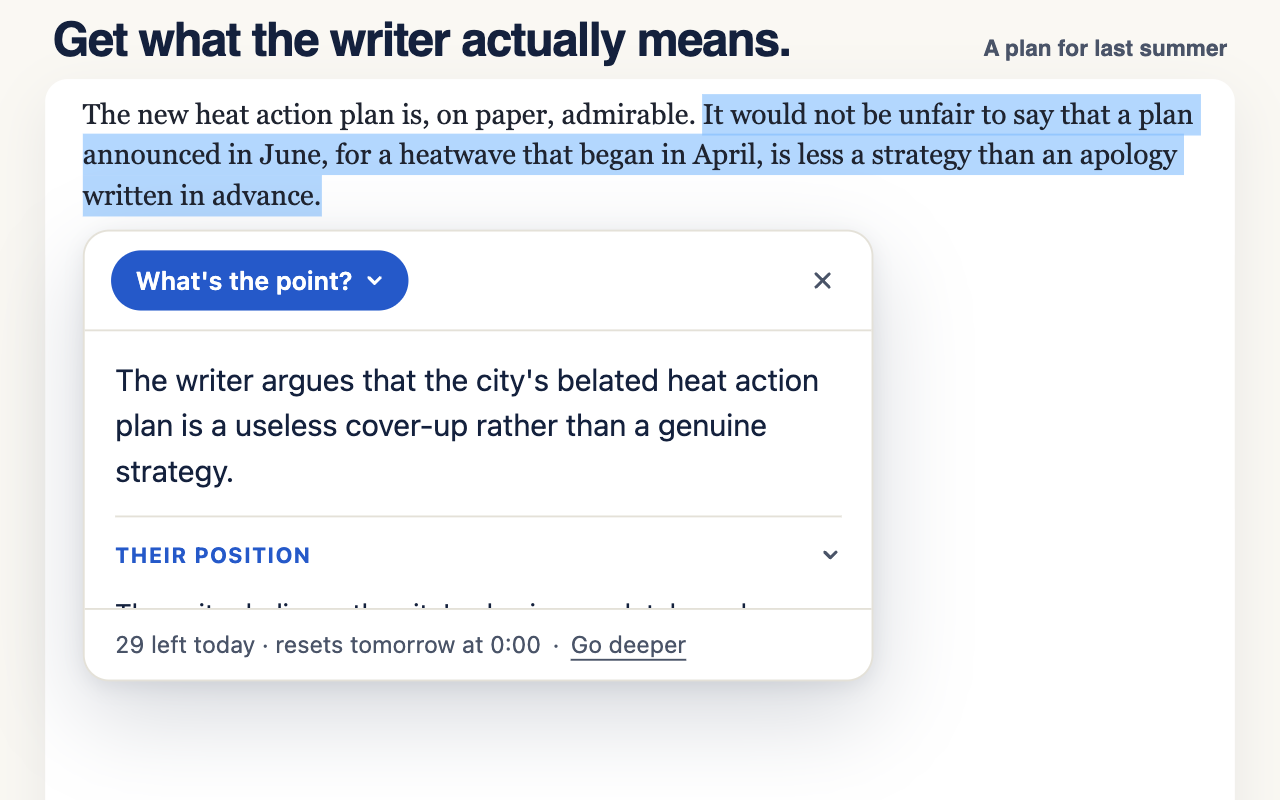
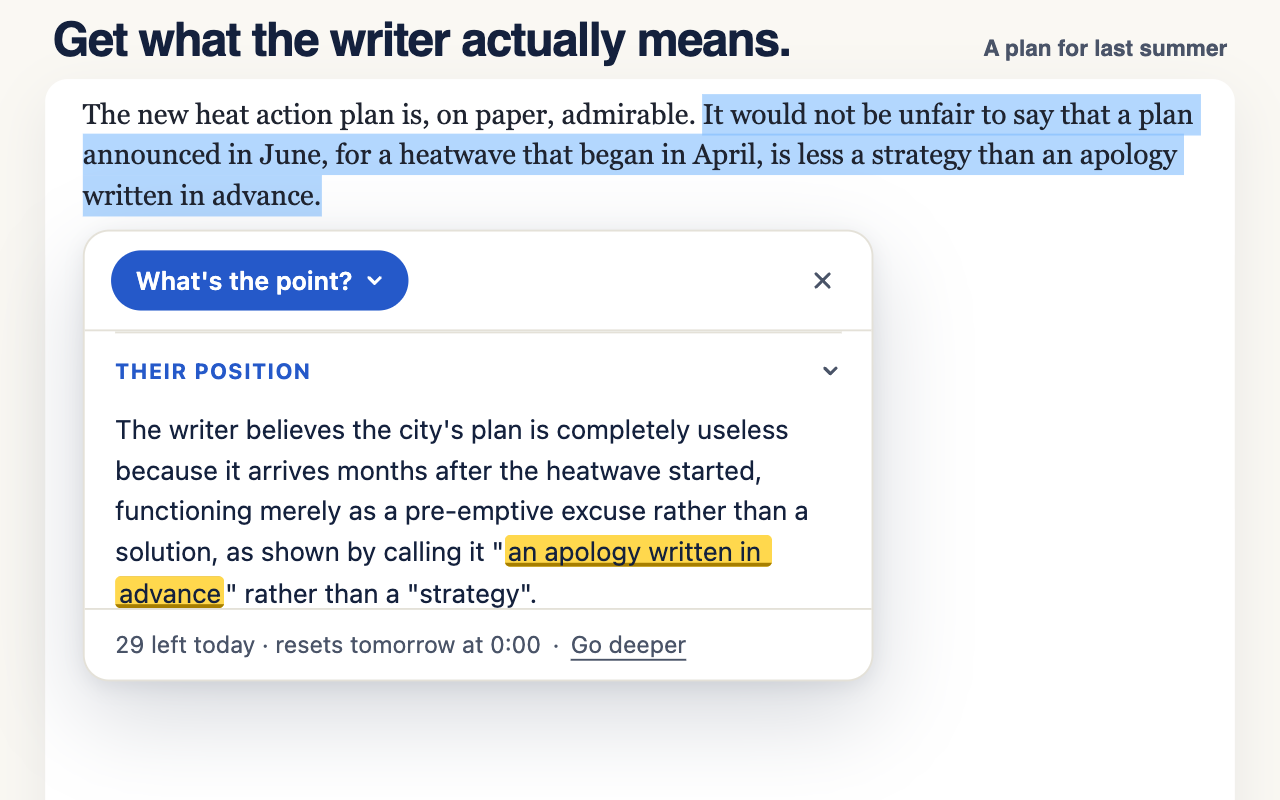
Fill store screenshot 1 and show the marked quote in screenshot 2
Shot 1 was half empty; the article now continues below a wider gap the pill
sits in. Shot 2 cut a line in half and hid the verified quote; its card is
now scrolled to show the heading and the quote with no line cut.

Changed region(s): [[0.0625, 0.4375, 0.6562, 0.7812]]

diff --git a/docs/CHANGES-EXPLAINED.md b/docs/CHANGES-EXPLAINED.md
@@ -2328,3 +2328,36 @@ closed shadow root through the Chrome DevTools Protocol. For each shot it
 checks that the card's bottom edge is inside the frame and that the summary
 isn't cut off by the card's scroll area. It printed a pass or fail line per
 shot, and I tried several zoom levels until all five passed.
+
+## Store screenshots: a full page in shot 1, the marked quote in shot 2
+
+**What changed.** Shot 1's page now continues below the selected paragraph,
+after a wider gap that the Explain pill sits in, so the text reaches as far
+down as in the other shots and the pill covers nothing. The demo editorial is
+fictional and only three sentences long, so its last sentence becomes its own
+paragraph, as in the film, and two short paragraphs were written to continue
+it. In shot 2 the card's body is scrolled, as a reader can scroll it, so the
+"Their position" heading and the line with the yellow verified quote are in
+view, with no line of text cut in half at the top or bottom edge.
+
+**Why.** Shot 1 was half empty. Shot 2 cut a line in half and hid the yellow
+quote, the visual proof that the answer quotes the writer's own words, which
+is the product's main promise.
+
+**What breaks without it.** A half-empty first image, and a screenshot that
+hides the feature it is meant to show.
+
+**Interview questions**
+
+*Q: How do you find a scroll position where no line is cut at either edge?*
+A: Collect the box of every line of text in the scrolling area (a Range over
+each text node gives one rectangle per line with getClientRects). Then try
+each scroll position in turn and keep the first one where the heading and the
+quote's lines are fully inside the visible area and no line crosses the top
+or bottom edge.
+
+*Q: How do you check that the pill doesn't cover text?*
+A: Compare rectangles. Read the pill's box from the extension's shadow root,
+read every line box of the page's paragraphs, and check that none of them
+overlap. The capture script prints the result, so a bad layout fails loudly
+instead of slipping through.

diff --git a/store-assets/UPLOAD-0.3.0.md b/store-assets/UPLOAD-0.3.0.md
@@ -52,8 +52,12 @@ were drawn in a 680-pixel-wide browser window at 1280/680 pixel density, so
 each is exactly 1280x800. The window is 340 pixels tall, shorter than the
 425-pixel frame. The card sizes itself to the window, up to 70% of it, so it
 stays fully in frame below the passage. The frame also shows the page below
-the window. Shot 1's paragraph ends at the selection, so the pill sits on clear
-space instead of covering the next line.
+the window. In shot 1 the rest of the article follows the selected paragraph
+after a wider gap, so the pill sits on clear space, as in the film. The demo
+editorial is fictional and was only three sentences long, so two short
+paragraphs were written for this test page to continue it. In shot 2 the
+card is scrolled, as a reader would, to show the "Their position" heading
+and the line with the marked quote, with no line cut at the card's edges.
 
 The pill shows "Ctrl+Shift+E", which is what Chrome reports on Windows and
 Linux, most of the audience. It was captured on a Mac, from a capture-only
